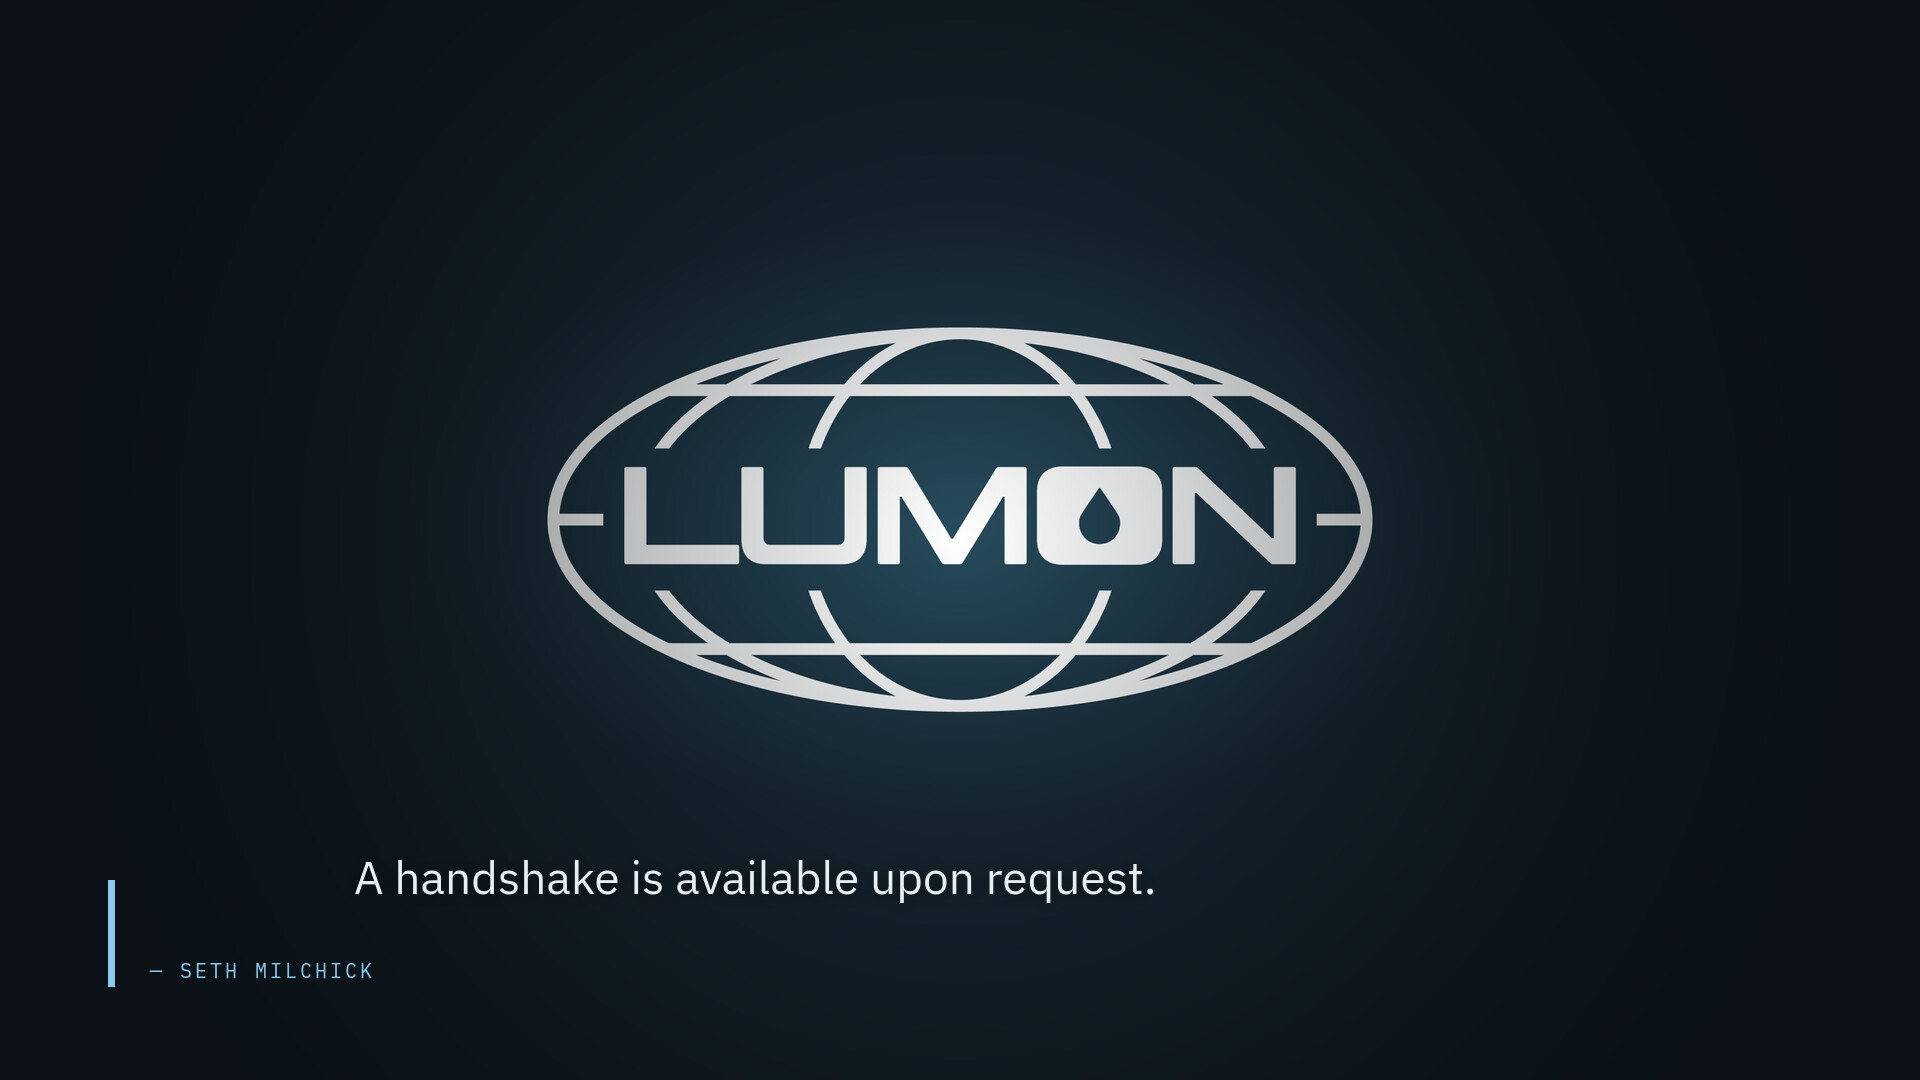
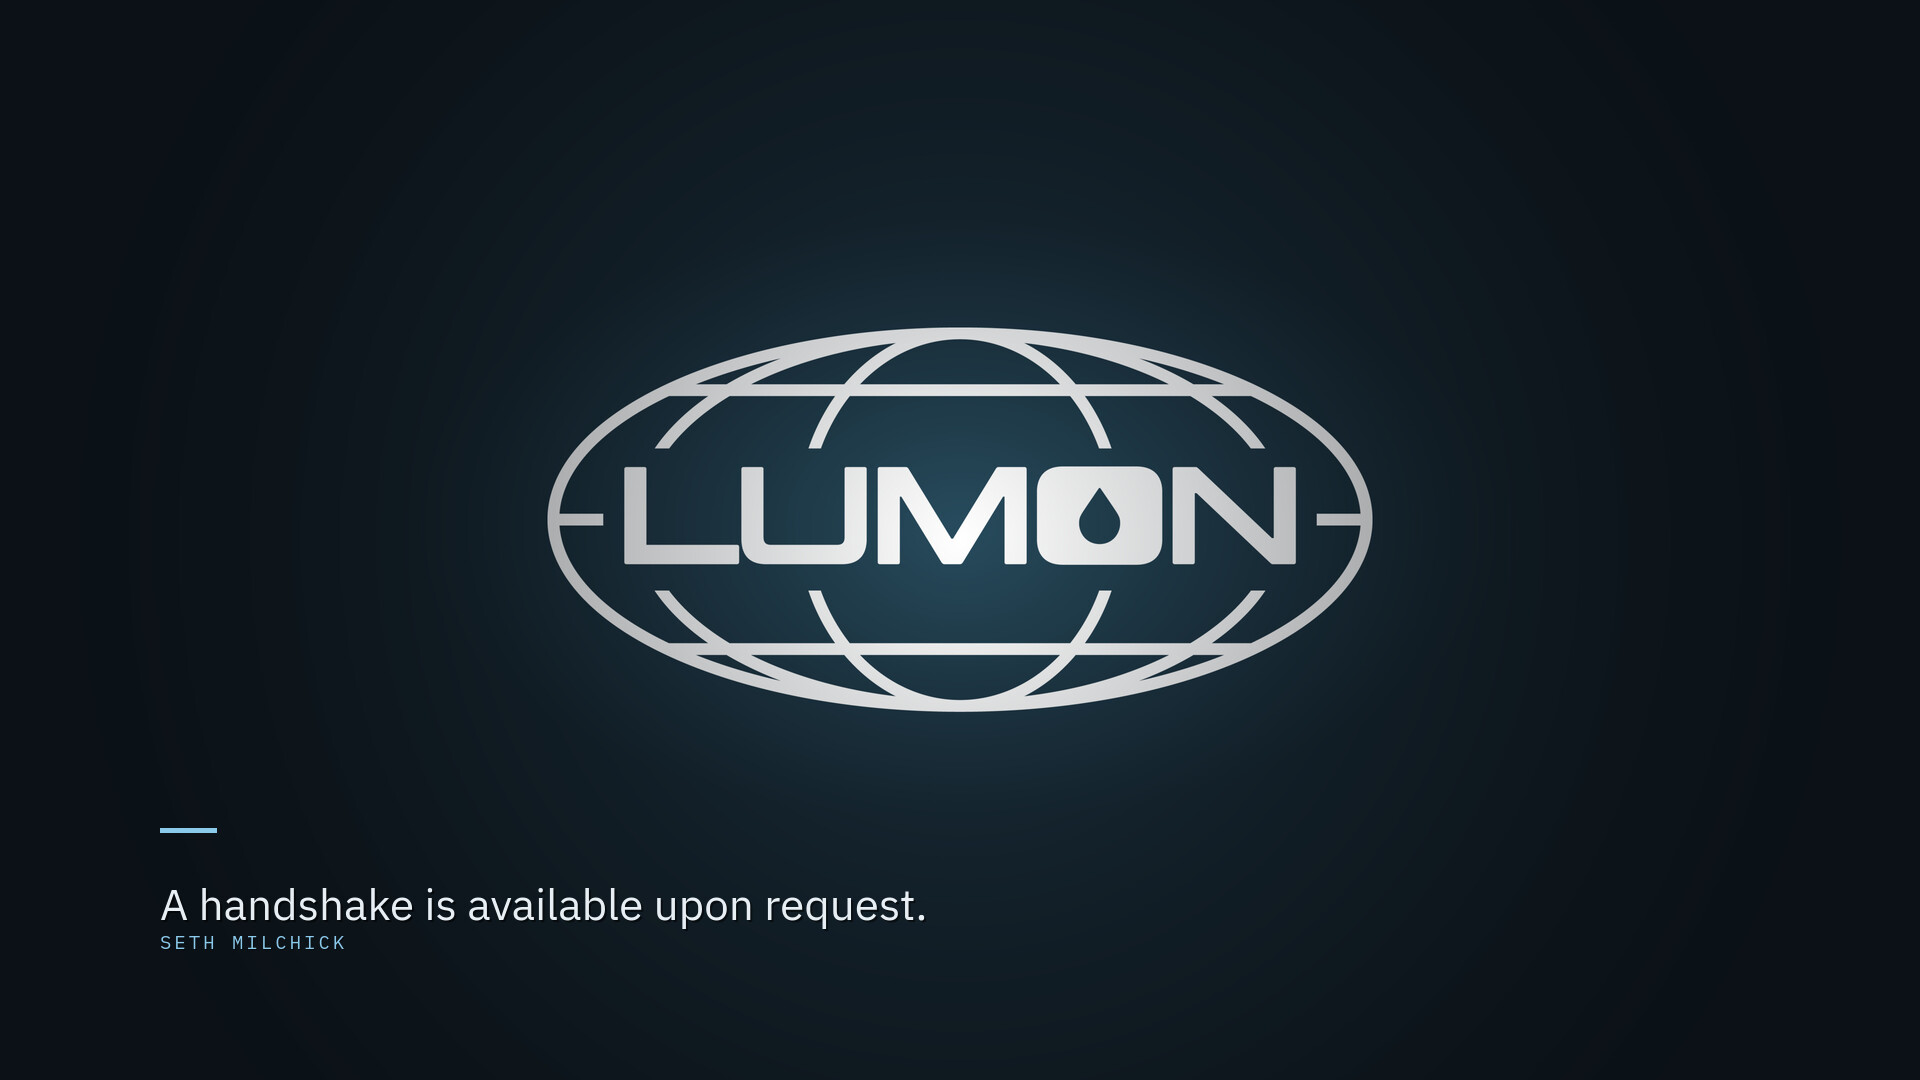
Replace the accent bar with a leading tick
The vertical accent bar hugged the screen edge at right/center positions and
read as a UI glitch. It's now a short horizontal rule above the quote, on the
text's leading edge, which works at all nine positions. Text is a plain Column
sized to maxWidth; attribution drops the "— " now that the tick carries it.
Preview refreshed to match.

Changed region(s): [[0.0312, 0.7944, 0.5938, 0.9167]]

diff --git a/Service.qml b/Service.qml
@@ -175,10 +175,13 @@ Item {
       WlrLayershell.layer: root.layerName === "top" ? WlrLayer.Top : WlrLayer.Bottom
       WlrLayershell.keyboardFocus: WlrKeyboardFocus.None
 
-      Row {
+      Column {
         id: placard
-        spacing: Math.round(18 * root.fontScale)
-        layoutDirection: root.hAlign === "right" ? Qt.RightToLeft : Qt.LeftToRight
+        width: root.maxWidth
+        spacing: Math.round(11 * root.fontScale)
+
+        readonly property int textAlign: root.hAlign === "right" ? Text.AlignRight
+          : root.hAlign === "center" ? Text.AlignHCenter : Text.AlignLeft
 
         anchors.left: root.hAlign === "left" ? parent.left : undefined
         anchors.leftMargin: root.marginX
@@ -206,45 +209,46 @@ Item {
           blurMax: 24
         }
 
-        Rectangle {
-          width: Math.max(2, Math.round(3 * root.fontScale))
-          height: col.implicitHeight
-          anchors.verticalCenter: parent.verticalCenter
-          color: Color.accent
-          opacity: 0.85
+        // A short accent tick above the quote, on its leading edge — reads at any
+        // position, unlike an edge-hugging vertical bar.
+        Item {
+          width: parent.width
+          height: Math.max(2, Math.round(3 * root.fontScale))
+          Rectangle {
+            width: Math.round(54 * root.fontScale)
+            height: parent.height
+            color: Color.accent
+            opacity: 0.9
+            anchors.left: root.hAlign === "left" ? parent.left : undefined
+            anchors.right: root.hAlign === "right" ? parent.right : undefined
+            anchors.horizontalCenter: root.hAlign === "center" ? parent.horizontalCenter : undefined
+          }
         }
 
-        Column {
-          id: col
-          spacing: Math.round(8 * root.fontScale)
+        Text {
+          width: parent.width
+          horizontalAlignment: placard.textAlign
+          text: root.quoteText
+          wrapMode: Text.WordWrap
+          color: Color.foreground
+          font.family: Style.font.family
+          font.pixelSize: Math.round(22 * root.fontScale)
+          font.weight: Font.Light
+          style: Text.Outline
+          styleColor: Qt.rgba(0, 0, 0, 0.5)
+        }
 
-          Text {
-            width: root.maxWidth
-            horizontalAlignment: root.hAlign === "right" ? Text.AlignRight
-              : root.hAlign === "center" ? Text.AlignHCenter : Text.AlignLeft
-            text: root.quoteText
-            wrapMode: Text.WordWrap
-            color: Color.foreground
-            font.family: Style.font.family
-            font.pixelSize: Math.round(22 * root.fontScale)
-            font.weight: Font.Light
-            style: Text.Outline
-            styleColor: Qt.rgba(0, 0, 0, 0.5)
-          }
-
-          Text {
-            visible: root.quoteAttr.length > 0
-            width: root.maxWidth
-            horizontalAlignment: root.hAlign === "right" ? Text.AlignRight
-              : root.hAlign === "center" ? Text.AlignHCenter : Text.AlignLeft
-            text: "— " + root.quoteAttr.toUpperCase()
-            color: Color.accent
-            font.family: Style.font.family
-            font.pixelSize: Math.round(11 * root.fontScale)
-            font.letterSpacing: 2
-            style: Text.Outline
-            styleColor: Qt.rgba(0, 0, 0, 0.45)
-          }
+        Text {
+          visible: root.quoteAttr.length > 0
+          width: parent.width
+          horizontalAlignment: placard.textAlign
+          text: root.quoteAttr.toUpperCase()
+          color: Color.accent
+          font.family: Style.font.family
+          font.pixelSize: Math.round(11 * root.fontScale)
+          font.letterSpacing: 2
+          style: Text.Outline
+          styleColor: Qt.rgba(0, 0, 0, 0.45)
         }
       }
     }
